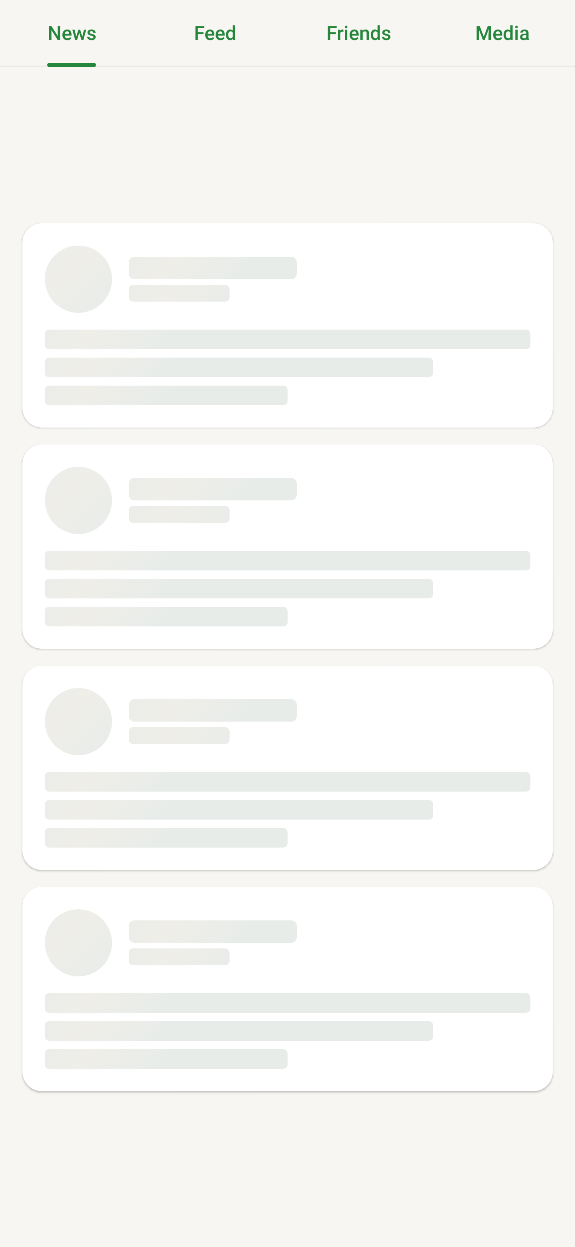
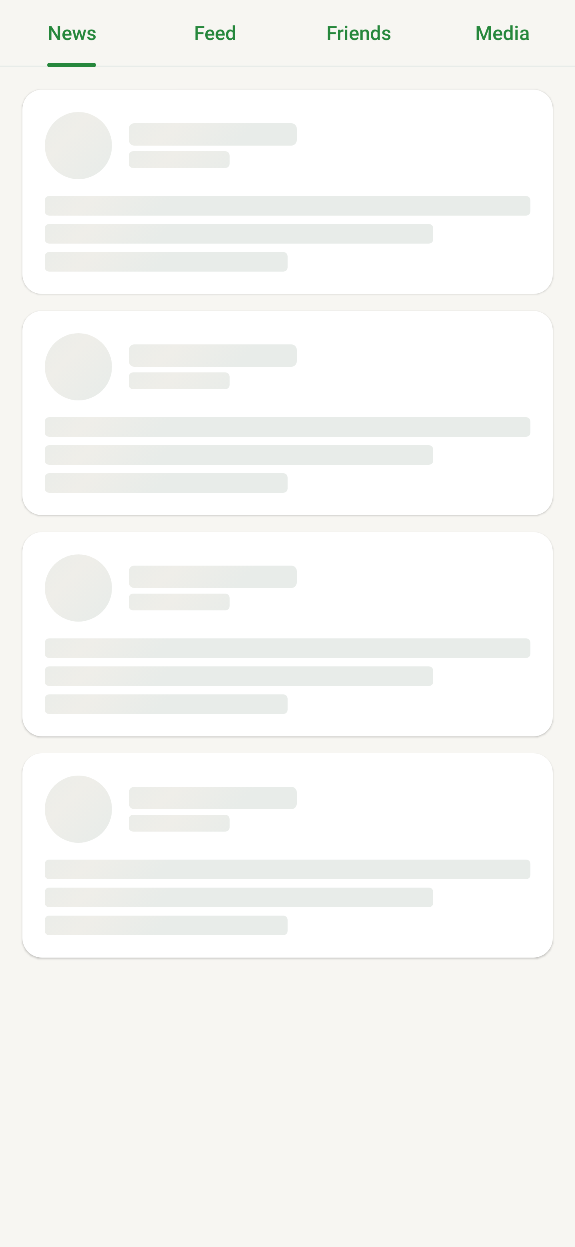
Fix Feed loading skeleton vertical-centering gap
The #15 refactor moved the loading skeleton out of the fillMaxSize
PullToRefreshBox and returned FeedListSkeleton directly as the
HorizontalPager page. Since the skeleton Column only wraps its content,
HorizontalPager vertically centered it, leaving a large empty gap
between the tab row and the first card.

Give the skeleton fillMaxSize so its cards stack from the top (the
Column already uses Arrangement.spacedBy), restoring the prior
top-anchored layout. Re-recorded the two affected loading baselines.

diff --git a/shared/src/commonMain/kotlin/io/github/kroune/pollen/presentation/feed/FeedScreen.kt b/shared/src/commonMain/kotlin/io/github/kroune/pollen/presentation/feed/FeedScreen.kt
@@ -139,7 +139,7 @@ private fun FeedTabPage(
     onRetry: () -> Unit,
 ) {
     when (feed) {
-        is LoadState.Loading -> FeedListSkeleton(modifier = Modifier.padding(16.dp))
+        is LoadState.Loading -> FeedListSkeleton(modifier = Modifier.fillMaxSize().padding(16.dp))
         is LoadState.Failed -> FullScreenError(onRetry = onRetry)
         is LoadState.Loaded -> PullToRefreshBox(
             isRefreshing = isRefreshing,